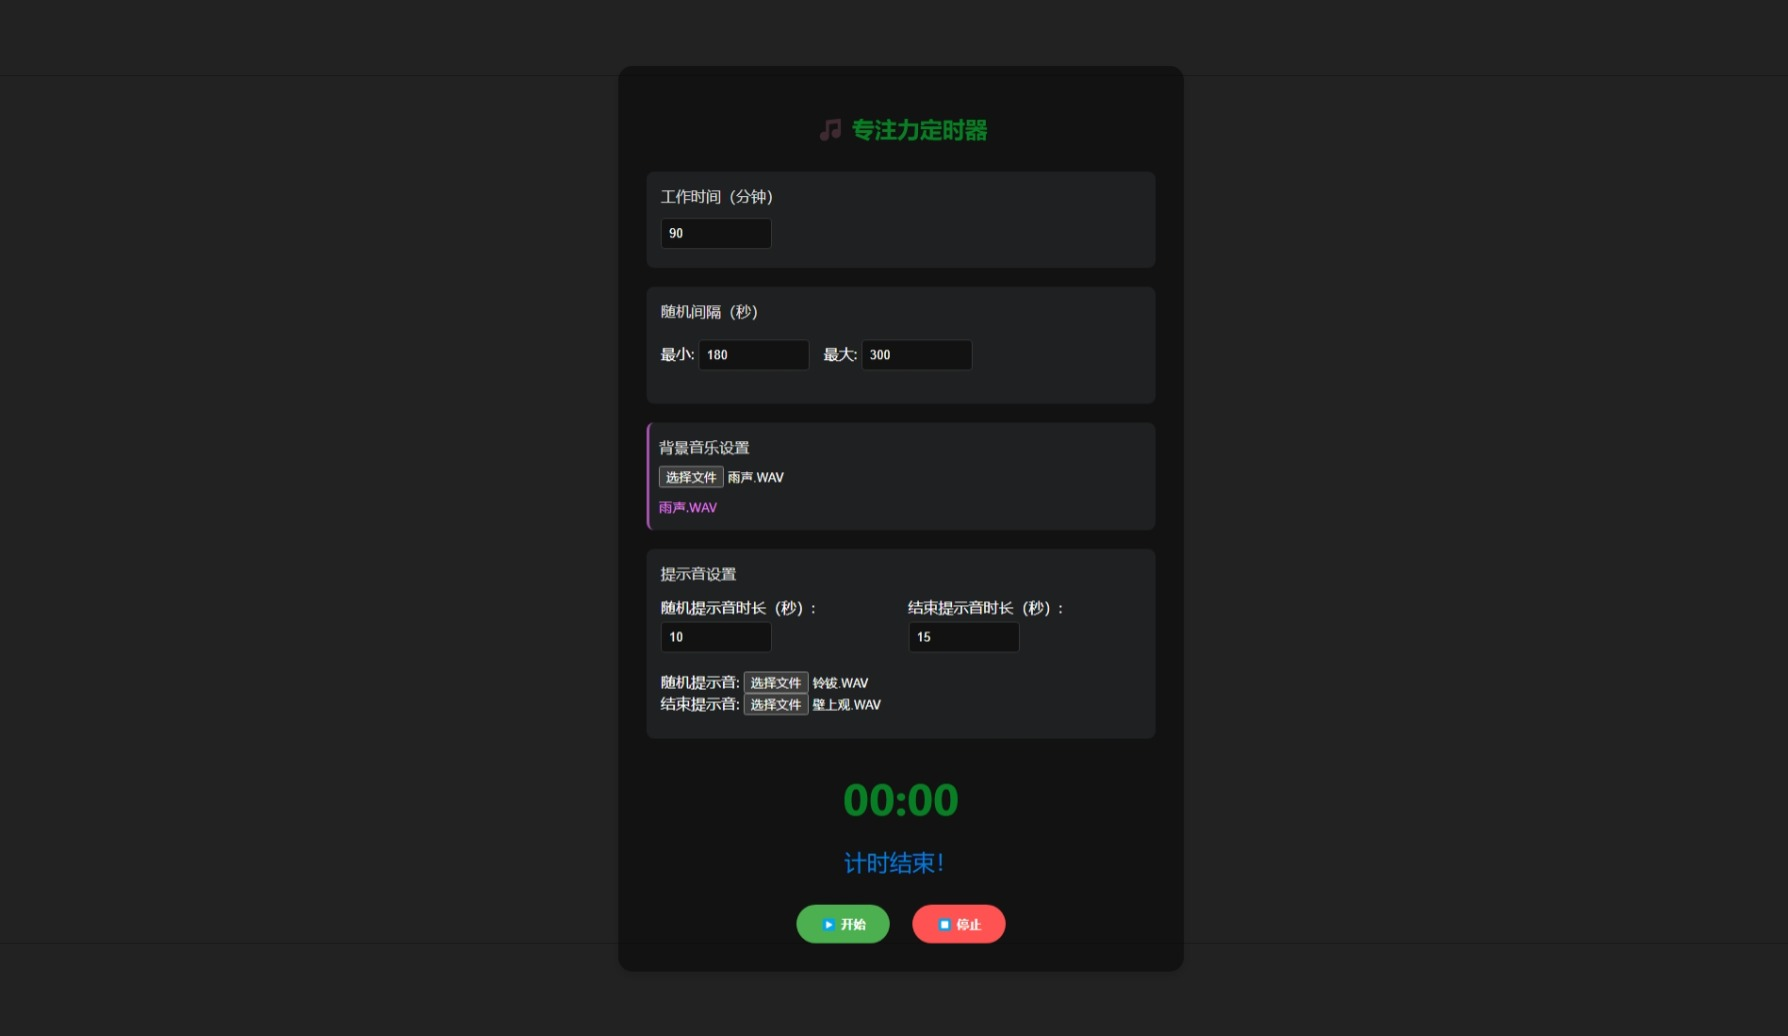
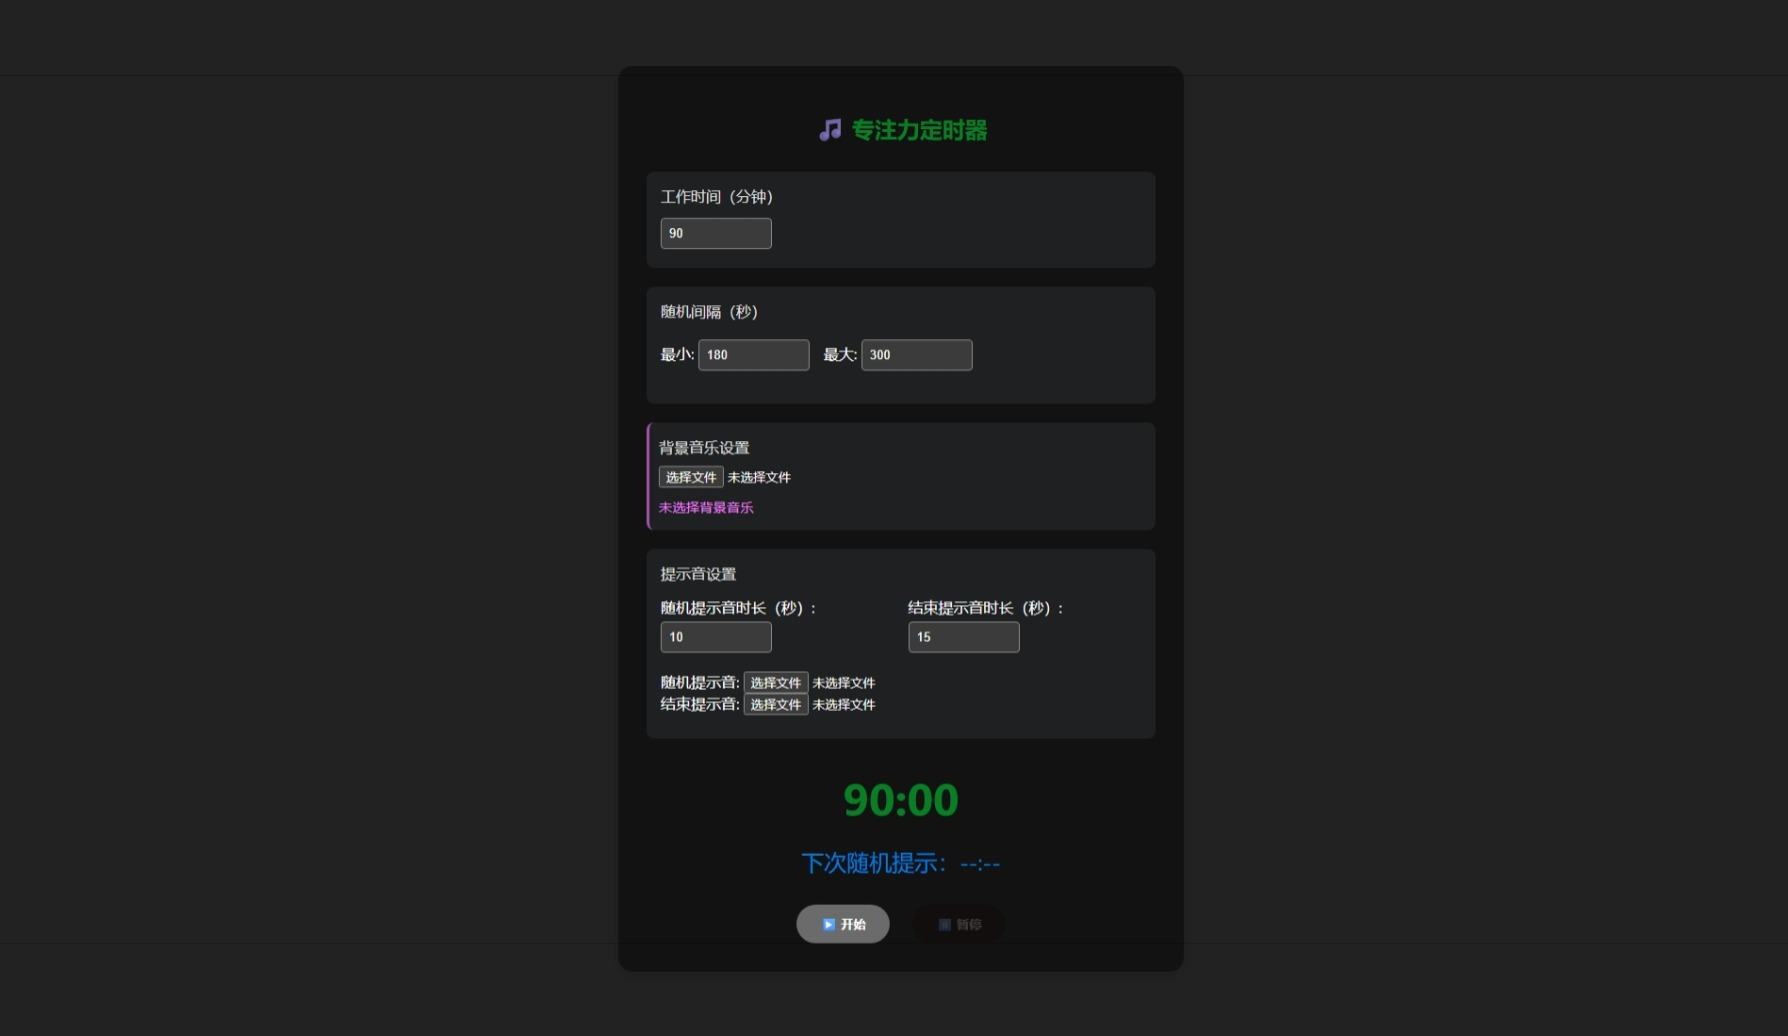
add pause/restore

diff --git a/专注力定时器.html b/专注力定时器.html
@@ -3,6 +3,7 @@
 <head>
     <title>专注力定时器</title>
     <style>
+        /* 原有样式保持不变 */
         :root {
             --primary-color: #4CAF50;
             --secondary-color: #2196F3;
@@ -116,6 +117,12 @@
             border-left: 3px solid var(--music-color);
             padding-left: 10px;
         }
+        
+        /* 新增暂停按钮样式 */
+        #pauseResumeBtn:disabled {
+            opacity: 0.6;
+            cursor: not-allowed;
+        }
     </style>
 </head>
 <body>
@@ -173,20 +180,21 @@
         </div>
 
         <div style="text-align: center;">
-            <button id="startBtn">▶ 开始</button>
-            <button id="stopBtn">⏹ 停止</button>
+            <button id="toggleTimerBtn">▶ 开始</button>
+            <button id="pauseResumeBtn" disabled>⏸ 暂停</button>
         </div>
     </div>
 
     <script>
-        let mainTimer;
-        let randomTimer;
-        let remainingTime;
-        let isRunning = false;
-        let currentRandomDuration = 0;
-        let bgAudio = null;
-        let originalVolume = 1;
-        let isDucking = false;
+let mainTimer;
+let randomTimer;
+let remainingTime;
+let isRunning = false;
+let isPaused = false;
+let randomCountdown; // 存储随机计时器剩余时间
+let bgAudio = null;
+let originalVolume = 1;
+let isDucking = false;
 
         // 默认提示音
[1 lines of base64/hex data omitted]
@@ -302,76 +310,115 @@
         function startRandomTimer() {
             const min = parseInt(document.getElementById('minInterval').value);
             const max = parseInt(document.getElementById('maxInterval').value);
-            currentRandomDuration = Math.floor(Math.random() * (max - min + 1) + min);
+            const duration = Math.floor(Math.random() * (max - min + 1)) + min;
+            randomCountdown = duration;
             
-            let count = currentRandomDuration;
-            document.getElementById('randomTimer').textContent = `下次随机提示：${formatTime(count)}`;
+	     // 清除旧的随机计时器
+   	     if (randomTimer) clearInterval(randomTimer);
+            document.getElementById('randomTimer').textContent = `下次随机提示：${formatTime(randomCountdown)}`;
 
-            randomTimer = setInterval(() => {
-                count--;
-                document.getElementById('randomTimer').textContent = `下次随机提示：${formatTime(count)}`;
-                
-                if (count <= 0) {
-                    clearInterval(randomTimer);
-                    const duration = parseInt(document.getElementById('randomDuration').value);
-                    playSound('randomSound', duration);
-                    startRandomTimer();
-                }
-            }, 1000);
+      randomTimer = setInterval(() => {
+        if (!isPaused) { // 新增暂停判断
+            randomCountdown--;
+            document.getElementById('randomTimer').textContent = `下次随机提示：${formatTime(randomCountdown)}`;
+            
+            if (randomCountdown <= 0) {
+                clearInterval(randomTimer);
+                const duration = parseInt(document.getElementById('randomDuration').value);
+                playSound('randomSound', duration);
+                startRandomTimer(); // 重新生成新计时器
+            }
+        }
+    }, 1000);
         }
 
         function startMainTimer() {
             if (isRunning) return;
             isRunning = true;
-
-            // 启动背景音乐
-            if (bgAudio) {
-                bgAudio.currentTime = 0;
-                bgAudio.play().catch(error => {
-                    console.log('背景音乐播放失败:', error);
-                });
-            }
+            isPaused = false;
 
             const workTime = parseInt(document.getElementById('workTime').value) * 60;
             remainingTime = workTime;
 
             document.getElementById('mainTimer').textContent = formatTime(remainingTime);
+            document.getElementById('pauseResumeBtn').disabled = false;
 
             mainTimer = setInterval(() => {
-                remainingTime--;
-                document.getElementById('mainTimer').textContent = formatTime(remainingTime);
-                
-                if (remainingTime <= 0) {
-                    clearInterval(mainTimer);
-                    clearInterval(randomTimer);
-                    const duration = parseInt(document.getElementById('endDuration').value);
-                    playSound('endSound', duration);
-                    isRunning = false;
-                    document.getElementById('randomTimer').textContent = "计时结束！";
-                    if (bgAudio) bgAudio.pause();
+                if (!isPaused) {
+                    remainingTime--;
+                    document.getElementById('mainTimer').textContent = formatTime(remainingTime);
+                    
+                    if (remainingTime <= 0) {
+                        stopTimer();
+                        const duration = parseInt(document.getElementById('endDuration').value);
+                        playSound('endSound', duration);
+                    }
                 }
             }, 1000);
 
             startRandomTimer();
+
+            if (bgAudio) {
+                bgAudio.currentTime = 0;
+                bgAudio.play().catch(console.error);
+            }
         }
 
         function stopTimer() {
-	    // 恢复原始音量
-            if (bgAudio && isDucking) {
-                bgAudio.volume = originalVolume;
-                isDucking = false;
-            }
             clearInterval(mainTimer);
             clearInterval(randomTimer);
             isRunning = false;
+            isPaused = false;
+            
             document.getElementById('mainTimer').textContent = formatTime(
                 parseInt(document.getElementById('workTime').value) * 60);
             document.getElementById('randomTimer').textContent = "下次随机提示：--:--";
-            if (bgAudio) bgAudio.pause();
+            document.getElementById('toggleTimerBtn').textContent = '▶ 开始';
+            document.getElementById('pauseResumeBtn').textContent = '⏸ 暂停';
+            document.getElementById('pauseResumeBtn').disabled = true;
+            
+            if (bgAudio) {
+                bgAudio.pause();
+            }
         }
 
-        document.getElementById('startBtn').addEventListener('click', startMainTimer);
-        document.getElementById('stopBtn').addEventListener('click', stopTimer);
+        function toggleTimer() {
+            if (!isRunning) {
+                startMainTimer();
+                document.getElementById('toggleTimerBtn').textContent = '⏹ 停止';
+            } else {
+                stopTimer();
+            }
+        }
+
+// 修改后的暂停/恢复处理函数
+function handlePauseResume() {
+    if (!isRunning) return;
+    
+    isPaused = !isPaused;
+    document.getElementById('pauseResumeBtn').textContent = isPaused ? '▶ 恢复' : '⏸ 暂停';
+    
+    // 处理背景音乐
+    if (bgAudio) {
+        if (isPaused) {
+            bgAudio.pause();
+        } else {
+            bgAudio.play().catch(console.error);
+        }
+    }
+    
+    // 新增：暂停时同步更新随机计时器显示
+    if (isPaused) {
+        document.getElementById('randomTimer').textContent = `已暂停：${formatTime(randomCountdown)}`;
+    } else {
+        document.getElementById('randomTimer').textContent = `下次随机提示：${formatTime(randomCountdown)}`;
+    }
+}
+
+        // 事件监听器
+        document.getElementById('toggleTimerBtn').addEventListener('click', toggleTimer);
+        document.getElementById('pauseResumeBtn').addEventListener('click', handlePauseResume);
+
     </script>
 </body>
 </html>
